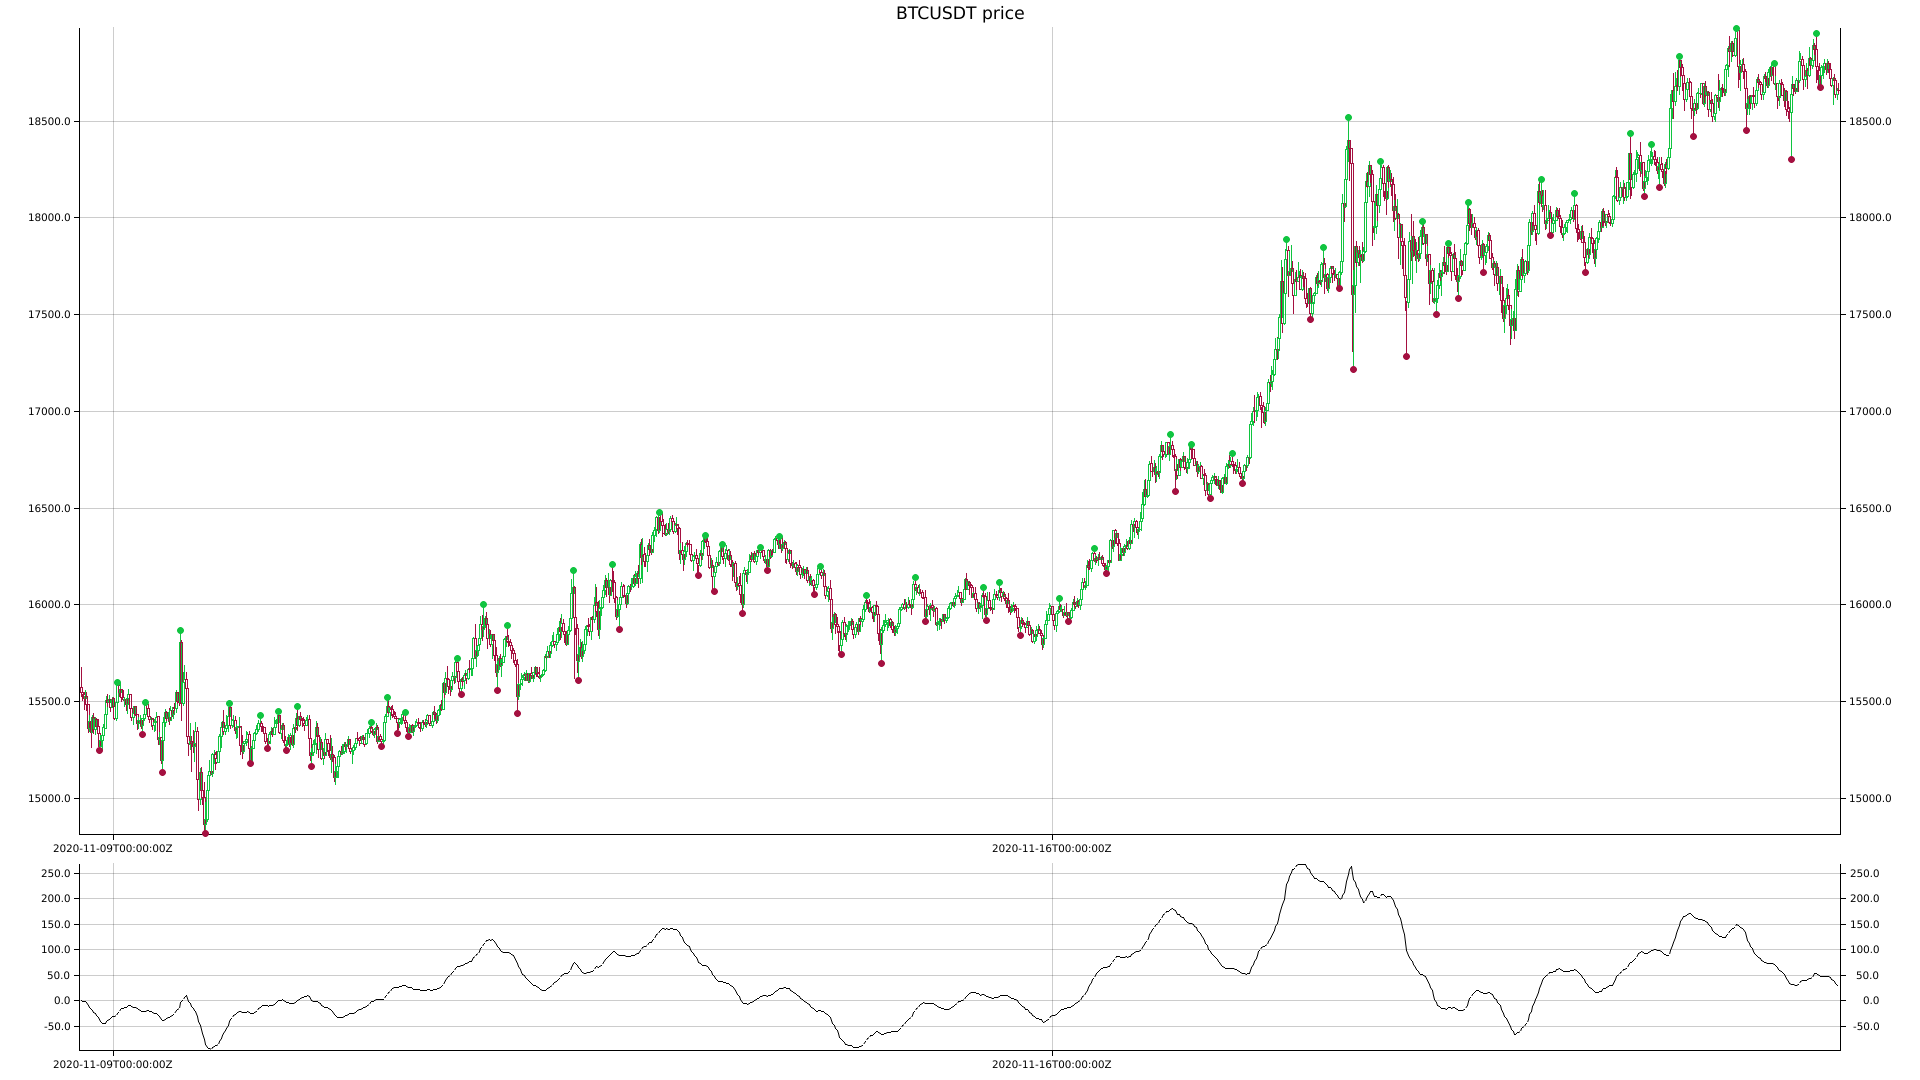
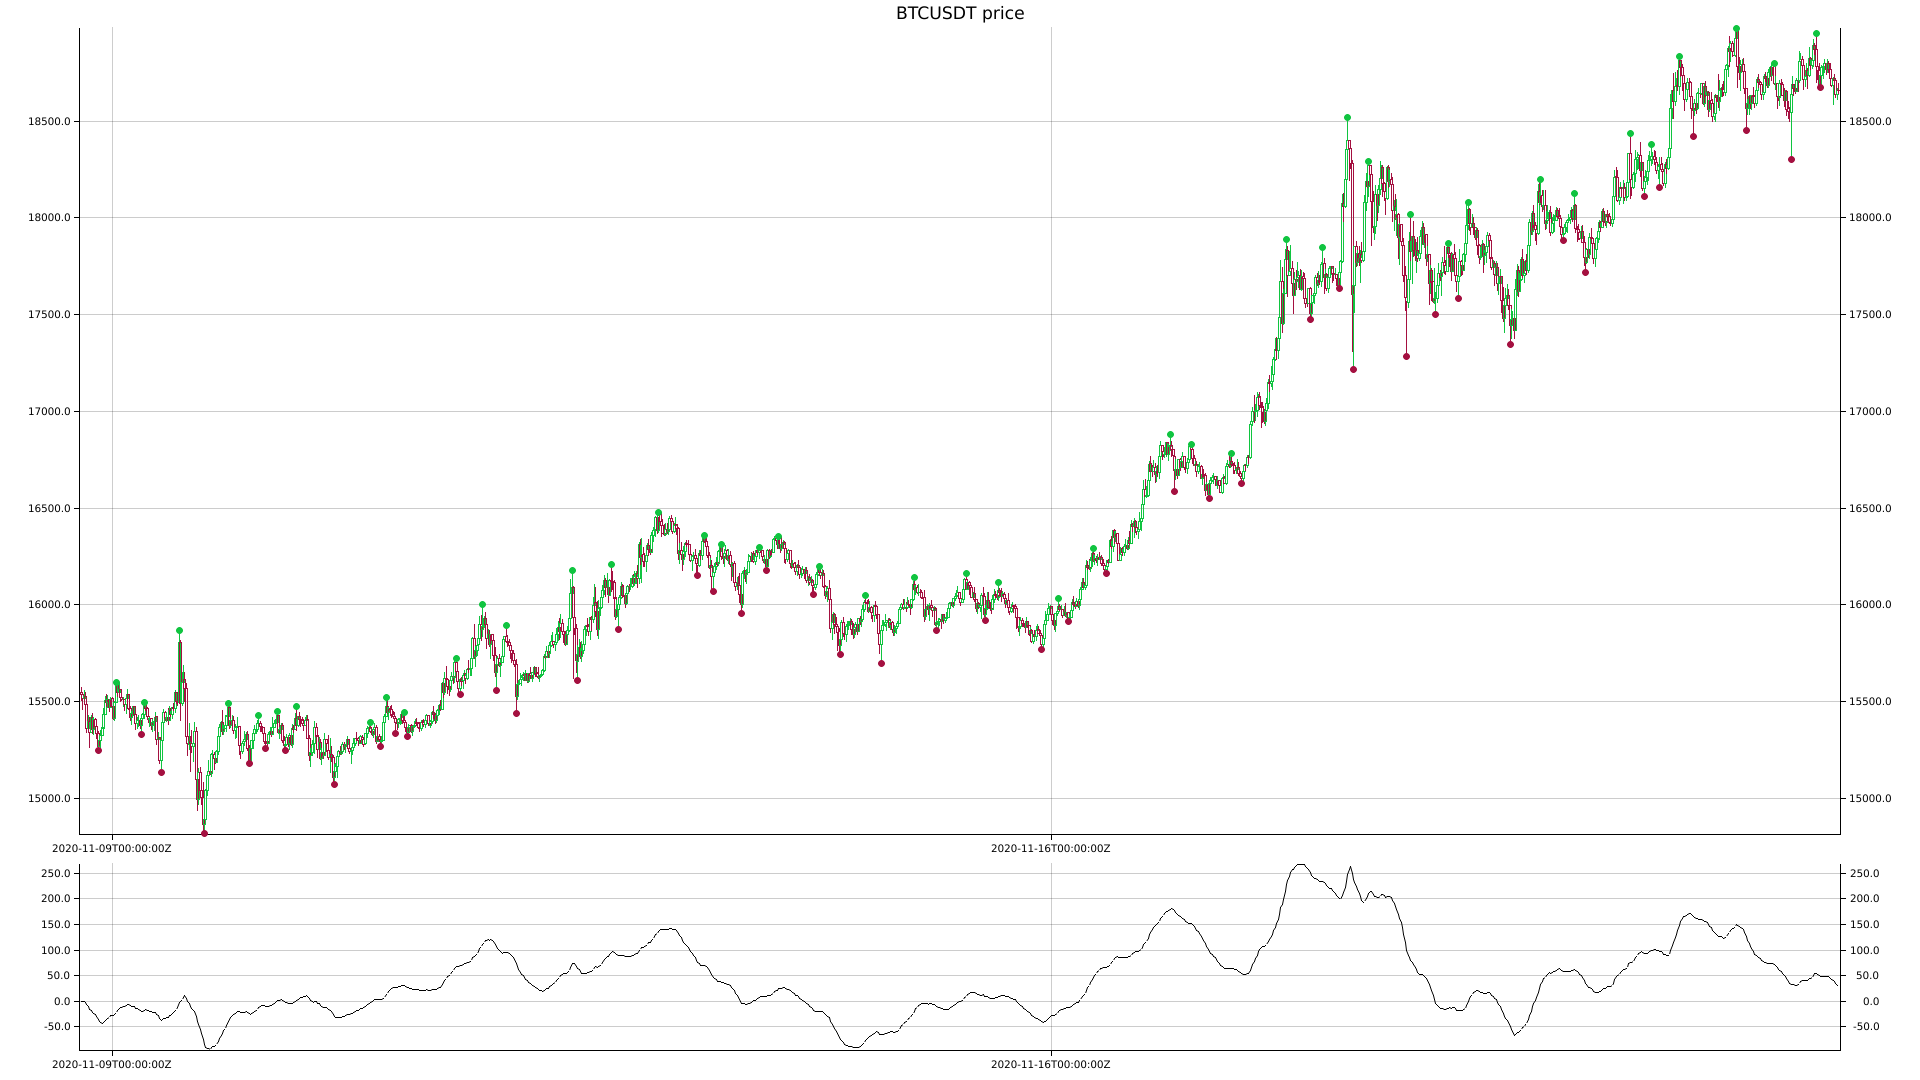
Fixed pivot logic

diff --git a/src/analyzers/pivots.rs b/src/analyzers/pivots.rs
@@ -99,36 +99,59 @@ impl<'a> PivotTac<'a> {
                 result.push(Pivot::new(PivotType::High, &pivot.close_time, &pivot.high));
             }
         }
-        remove_noise_pivots(&mut result);
+        normalize_pivots(&mut result);
         result
     }
 }
 
-fn remove_noise_pivots<'a>(pivots: &mut Vec<Pivot<'a>>) {
+fn normalize_pivots<'a>(pivots: &mut Vec<Pivot<'a>>) {
     if pivots.is_empty() {
         return;
     }
+
     let mut delete = HashSet::new();
     let mut reverse = pivots.clone();
     reverse.reverse();
+
     let mut pivots_iter = reverse.iter();
+
     let mut previous = pivots_iter.next().unwrap();
     loop {
         match pivots_iter.next() {
             None => break,
             Some(current) => {
+                iprint!("pivots {current:?}");
                 if current.type_p == previous.type_p {
                     if current.type_p == PivotType::Low {
-                        delete.insert(current.max(previous));
+                        delete.insert(max_price(previous, current));
                     } else {
-                        delete.insert(current.min(previous));
+                        delete.insert(min_price(previous, current));
                     }
+                    iprint!(" *");
                 }
+                iprintln!("");
                 previous = current;
             }
         }
     }
+
     pivots.retain(|p| delete.get(p).is_none());
+}
+
+fn max_price<'a>(previous: &'a Pivot, current: &'a Pivot) -> &'a Pivot<'a> {
+    if previous.price > current.price {
+        previous
+    } else {
+        current
+    }
+}
+
+fn min_price<'a>(previous: &'a Pivot, current: &'a Pivot) -> &'a Pivot<'a> {
+    if previous.price < current.price {
+        previous
+    } else {
+        current
+    }
 }
 
 #[cfg(test)]
